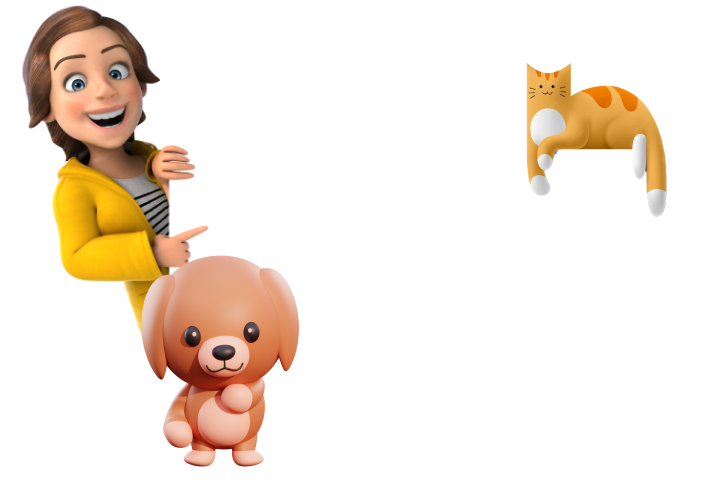
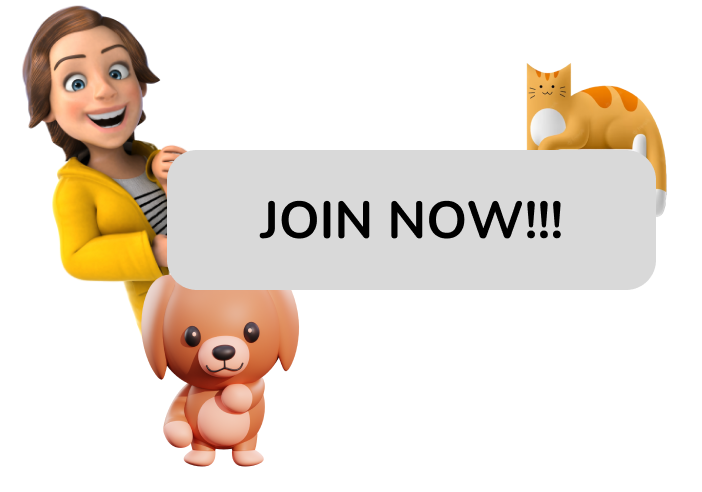
Xtrapage Kelar 9 Mei 2023

Changed region(s): [[0.2393, 0.3049, 0.9573, 0.6098]]

diff --git a/public/css/Xtrapage.css b/public/css/Xtrapage.css
@@ -313,7 +313,7 @@ input {
     background-color: #d9d9d9;
     border-radius: 1.04vw;
     padding: 1.04vw;
-    height: 10vw;
+    /* height: 10vw; */
     /* width: 76.57vw; */
     /* border: red solid; */
 }
@@ -339,7 +339,7 @@ main .card {
     flex-direction: column;
     align-items: center;
 
-    border: yellow solid;
+    /* border: yellow solid; */
 }
 
 main #contact .card { /*Kotak Member List*/
@@ -387,31 +387,16 @@ main #contact .card .badge ::-webkit-scrollbar{
     /* border: cyan solid; */
 }
 
+/* Untuk Leave Xtra */
 main #contact img { /*gambar stop*/
-    /* width: 25vw;
+    width: 25vw;
     height: 30vw;
     position: relative;
     display: flex;
     flex-direction: column;
     align-items: center;
-    margin-left: 8.8vw;
-    border: purple solid; */
-}
-
-main #contact img { /*gambar join*/
-    width: 33vw;
-    height: 23vw;
-    position: relative;
-    display: flex;
-    flex-direction: column;
-    align-items: center;
-    margin-top: 3vw;
-    margin-left: 2.3vw;
-    border: purple solid;
-}
-
-main #contact img:hover { /*gambar join*/
-    display: none;
+    margin-left: 10vw;
+    /* border: purple solid; */
 }
 
 main #contact .btn-member { /*Kotak dari Button Leave Xtra*/
@@ -425,7 +410,7 @@ main #contact .btn-member { /*Kotak dari Button Leave Xtra*/
     bottom: 0;
     width: 25vw;
     margin-left: 10vw;
-    border: red solid;
+    /* border: red solid; */
 }
 
 main #contact .btn-member button { /*Button Leave Xtra*/
@@ -436,13 +421,14 @@ main #contact .btn-member button { /*Button Leave Xtra*/
     font-size: 2.2vw;
     font-weight: 800;
     border-radius: 1.56vw;
-    border: green solid;
+    /* border: green solid; */
 }
 
 main #contact .btn-member button:hover {
     background-color: rgb(2, 133, 209);
     /* color: wheat; */
 }
+/* Untuk Leave Xtra */
 
 main #contact .modal {
     border-radius: 1.04vw;

diff --git a/resources/views/Ketua/Xtrapageketua.blade.php b/resources/views/Ketua/Xtrapageketua.blade.php
@@ -223,22 +223,46 @@
             <form action="" class="KotakForm">
               <div class="form-group" id="KotakDesc">
                 <label for="exampleFormControlTextarea1" style="font-size: 1.5vw; margin-bottom: 0 !important;">Description :</label>
-                <textarea
+
+                {{-- ini buat bisa edit isi Desc --}}
+                {{-- <textarea
                   class="form-control"
                   id="exampleFormControlTextarea1"
                   rows="3"
                   name="descriptiontextarea"
-                ></textarea>
+                  style="height: 15vw; border-radius: 2.5vw"
+                ></textarea> --}}
+                {{-- ini buat bisa edit isi Desc --}}
+
+                <div
+                  class="form-control"
+                  id="exampleFormControlTextarea1"
+                  rows="3"
+                  name="descriptiontextarea"
+                  style="height: 15vw; border-radius: 2.5vw"
+                ></div>
               </div>
 
               <div class="form-group" id="KotakAct">
                 <label for="exampleFormControlTextarea1" style="font-size: 1.5vw; margin-bottom: 0 !important;">Activity :</label>
-                <textarea
+
+                {{-- ini buat bisa edit isi Activity--}}
+                {{-- <textarea
+                    class="form-control"
+                    id="exampleFormControlTextarea1"
+                    rows="3"
+                    name="activitytextarea"
+                    style="height: 9vw; border-radius: 2.5vw;"
+                    ></textarea> --}}
+                {{-- ini buat bisa edit isi Activity --}}
+
+                <div
                   class="form-control"
                   id="exampleFormControlTextarea1"
                   rows="3"
                   name="activitytextarea"
-                ></textarea>
+                  style="height: 9vw; border-radius: 2.5vw;"
+                ></div>
               </div>
             </form>
           </div>
@@ -358,7 +382,8 @@
                 </div>
               </div>
 
-              {{-- <div class="col-lg-6 col-sm-6 col-md-6 col-6">
+              {{-- Untuk Leave Xtra --}}
+              {{-- <div class="col-lg-6 col-sm-6 col-md-6 col-6" style="padding: 0 !important;">
                 <img src="{{ asset('Assets/Xtrapage assets/stop.png') }}" alt="" class="gambarstop"/>
                 <div class="btn-member">
                   <button type="button" class="btn" data-toggle="modal" data-target="#staticBackdrop">
@@ -366,17 +391,19 @@
                   </button>
                 </div>
               </div> --}}
+              {{-- Untuk Leave Xtra --}}
 
-              <div class="col-lg-6 col-sm-6 col-md-6 col-6" style="padding: 0 !important; border: green solid">
-                <div class="containergambarbutton">
-                    <div class="btn-member">
-                        <button type="button" class="btn" data-toggle="modal" data-target="#staticBackdrop">
-                            JOIN NOW!!!
-                        </button>
-                    </div>
-
-                    <img src="{{ asset('Assets/Xtrapage assets/GambarJoin.png') }}" alt="" class="gambarstop"/>
-
+              <div class="col-lg-6 col-sm-6 col-md-6 col-6" style="padding: 0 !important;">
+                <div class="gambarhover">
+                        <a href="/xtrareg">
+                            <div class="registernow absolute ml-[13vw] h-[7.3vw] mt-[7.5vw] w-[24.7vw] flex flex-col justify-center items-center font-nunito font-bold text-[2.5vw] z-50 bg-red-500 rounded-[1vw] opacity-0" onmouseover="join.src='{{asset('Assets/Xtrapage assets/GambarJoinHover.png')}}'" onmouseout="join.src='{{asset('Assets/Xtrapage assets/GambarJoin.png')}}'">
+                                JOIN NOW!!!
+                            </div>
+                        </a>
+                        <div class="flex">
+                            {{-- <img class="absolute ml-[1vw] h-[20vw] mt-[0.8vw]" id="join" src="{{asset('Assets/Xtrapage assets/GambarJoin.png')}}" alt=""> --}}
+                            <img class="gambarjoin" id="join" src="{{asset('Assets/Xtrapage assets/GambarJoin.png')}}" alt="" style="height: 25vw; width: 35vw; margin:0; margin-left: 5vw;">
+                        </div>
                 </div>
               </div>
 
